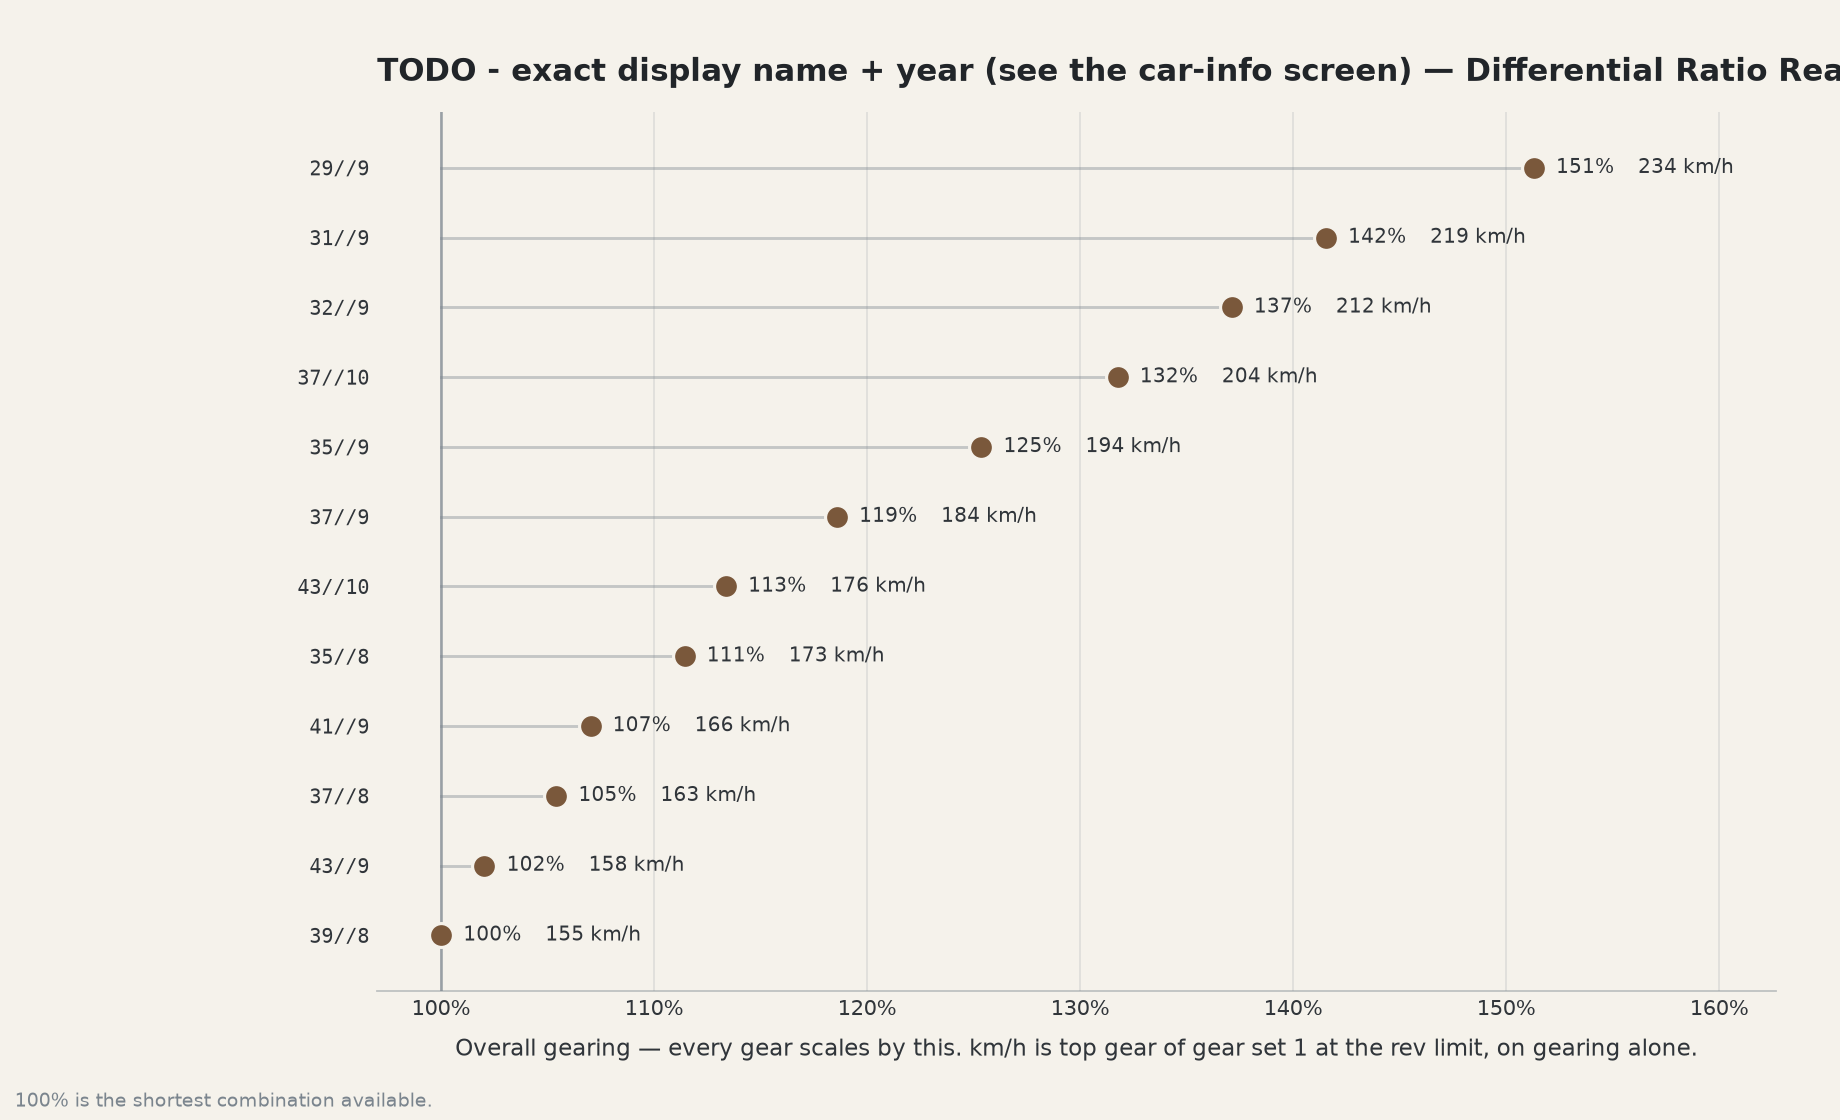
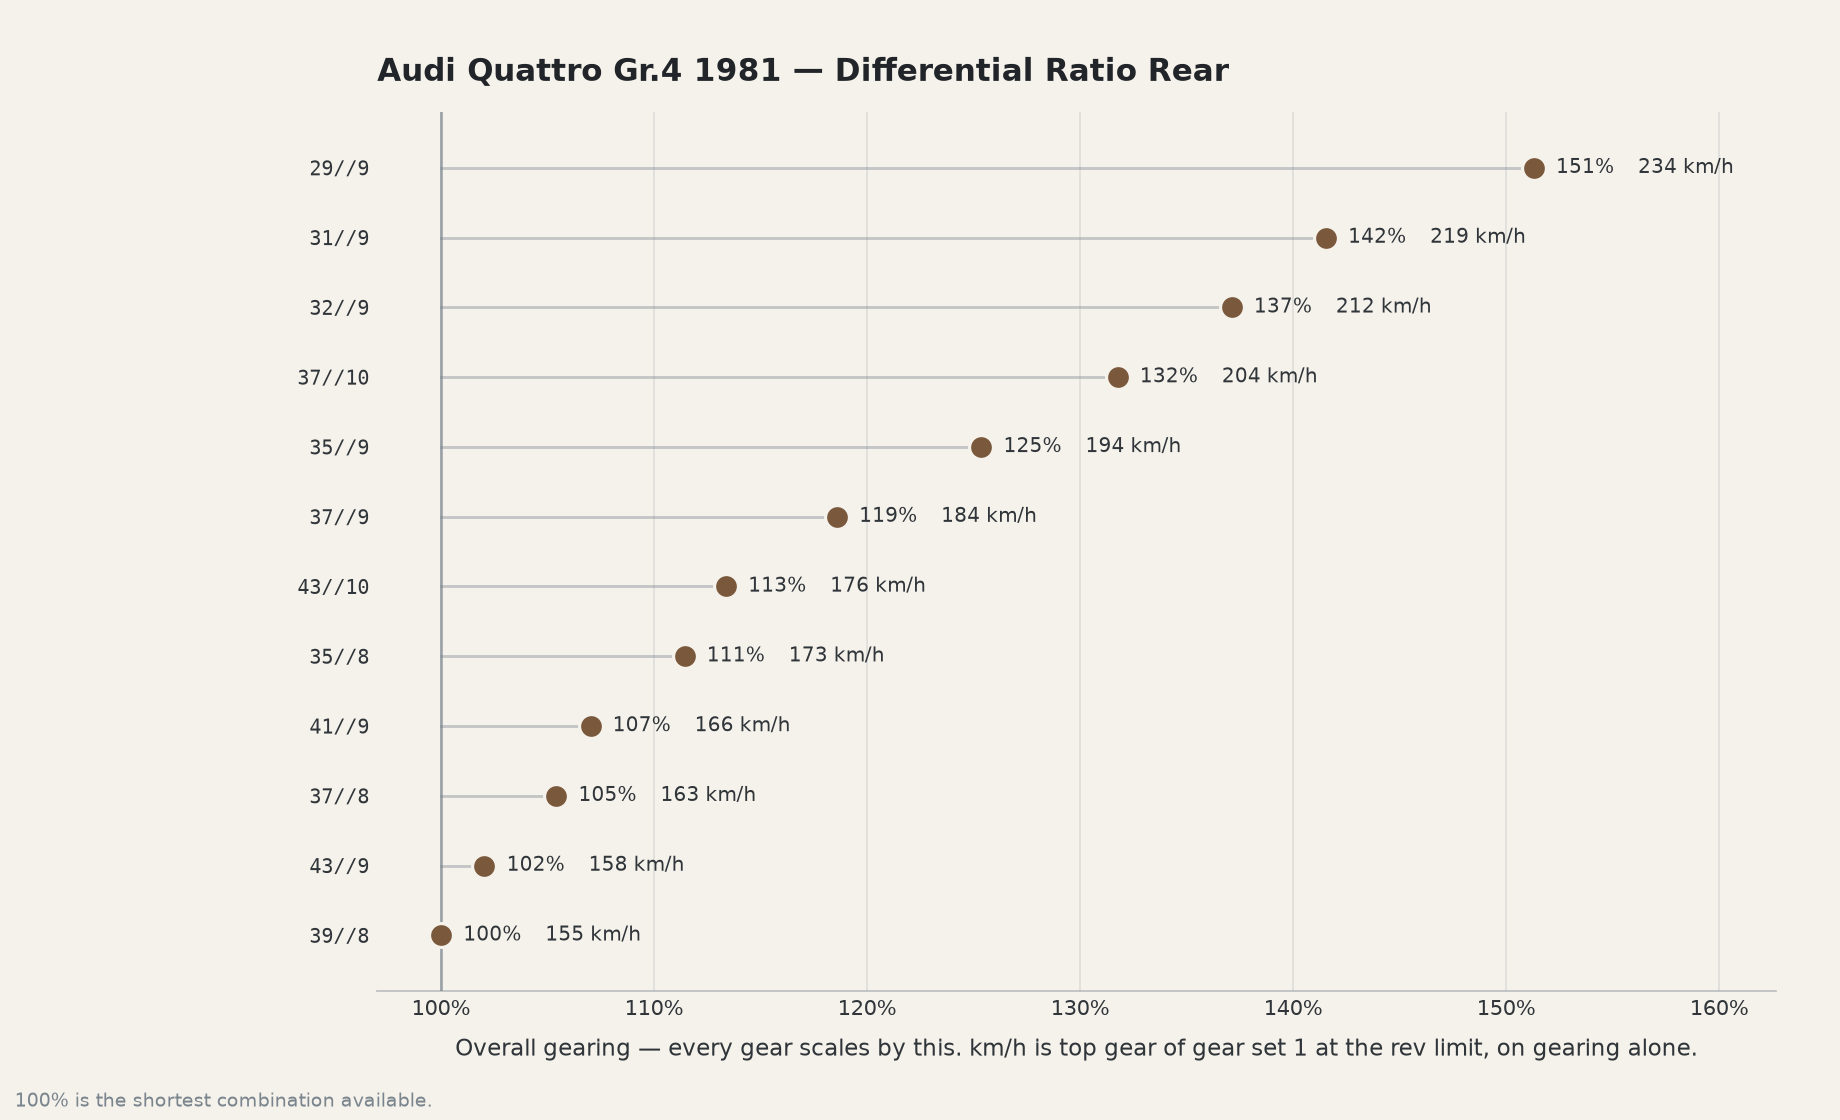
todos filled out

Changed region(s): [[0.2168, 0.0312, 0.7745, 0.0938], [0.8054, 0.0312, 1.0, 0.0938]]

diff --git a/tools/torque-curves/extract_torque_curves.py b/tools/torque-curves/extract_torque_curves.py
@@ -41,15 +41,16 @@ CAR_MAP = {
     "Fiat131Abarth":                ("fiat-131-abarth-1976", "Fiat 131 Abarth 1976"),
     "HyundaiI20NRally2":            ("hyundai-i20-rally2-2021", "Hyundai i20 Rally2 2021"),
     "LanciaDeltaHFIntegraleEvo":    ("lancia-delta-integrale-evoluzione-1992", "Lancia Delta Integrale Evoluzione 1992"),
-    "LanciaFulviaCoupeHF": ("lancia-fulvia-coupe-hf-1970", "Lancia Fulvia Coupe HF 1970"),
+    # accent matches the template's own car: field - see the note under CAR_MAP
+    "LanciaFulviaCoupeHF": ("lancia-fulvia-coupe-hf-1970", "Lancia Fulvia Coupé HF 1970"),
     "LanciaRally037Evo2":           ("lancia-037-evoluzione-2-1984", "Lancia 037 Evoluzione 2 1984"),
     "LanciaStratosHF":              ("lancia-stratos", "Lancia Stratos HF 1976"),
     "MiniCooperS1275":              ("mini-cooper-s-1964", "Mini Cooper S 1964"),
-    "Peugeot208Rally4":             ("peugeot-208-rally4", "Peugeot 208 Rally4"),
+    "Peugeot208Rally4":             ("peugeot-208-rally4", "Peugeot 208 Rally4 2020"),
     "Peugeot306IIMaxi":       ("peugeot-306-ii-maxi-1997", "Peugeot 306 II Maxi 1997"),
     "SkodaFabiaRSRally2":           ("skoda-fabia-rs-rally2-2022", "Skoda Fabia RS Rally2 2022"),
     "SubaruImprezaS3":           ("subaru-impreza-555-s3-1993", "Subaru Impreza 555 (S3) 1993"),
-    "AudiQuattroGr4":               ("audi-quattro-gr4-1981", "Audi Quattro Gr4 1981"),
+    "AudiQuattroGr4":               ("audi-quattro-gr4-1981", "Audi Quattro Gr.4 1981"),
     "VWPoloGTIR5":                  ("volkswagen-polo-gti-r5-2018", "Volkswagen Polo GTI R5 2018"),
     # Peugeot206WRC has no FC_*_Torque asset in the game files yet (see
     # car-catalog/README.md - Car identity facts / the Peugeot 206 WRC note) -
@@ -57,6 +58,10 @@ CAR_MAP = {
     # picks it up automatically.
     "Peugeot206WRC":                ("peugeot-206-wrc-1999", "Peugeot 206 WRC 1999"),
 }
+
+# The display name above titles the chart, and must stay identical to the template's
+# own `car:` field - ../gearing-charts/make_gearing_chart.py titles its charts from
+# that field instead, so a mismatch ships two charts for one car under two names.
 
 # Brand palette (yt-writing/brand-palette.md)
 WARM_WHITE, GRAPHITE, DARK_GRAPHITE = "#F5F2EB", "#30353A", "#212529"
@@ -293,10 +298,14 @@ def main():
     ap.add_argument("--templates",
                     default=os.path.join(REPO, ".claude", "skills", "acr-setup-engineer", "car-templates"))
     ap.add_argument("--dry-run", action="store_true", help="report only; write nothing")
+    ap.add_argument("--car", help="only this template slug (default: every car). Use it when "
+                                  "re-rendering one car so the other templates aren't rewritten.")
     args = ap.parse_args()
 
     if not os.path.isdir(args.paks):
         sys.exit(f"ACR paks not found at {args.paks} (pass --paks)")
+    if args.car and args.car not in {slug for slug, _ in CAR_MAP.values()}:
+        sys.exit(f"unknown slug {args.car} - add it to CAR_MAP first")
 
     assets = find_curve_assets(args.paks)
     print(f"found {len(assets)} torque curves in {args.paks}\n")
@@ -324,6 +333,8 @@ def main():
             print(f"  !! {car}: not in CAR_MAP - add it and re-run")
             continue
         slug, display = CAR_MAP[car]
+        if args.car and slug != args.car:
+            continue
 
         if not args.dry_run:
             render_chart(display, s, os.path.join(args.charts, f"{slug}-power-torque.png"))

diff --git a/tools/car-catalog/extract_car_catalog.py b/tools/car-catalog/extract_car_catalog.py
@@ -51,7 +51,6 @@ CAR_MAP = {
     'peugeot-306-ii-maxi-1997':               'DA_Peugeot306IIMaxiPresets',
     'skoda-fabia-rs-rally2-2022':             'DA_SkodaFabiaRSRally2Presets',
     'subaru-impreza-555-s3-1993':             'DA_SubaruImprezaS3Presets',
-    # queued, no bundled template yet - onboarding backlog
     'audi-quattro-gr4-1981':                  'DA_AudiQuattroGr4Presets',
     'volkswagen-polo-gti-r5-2018':            'DA_VWPoloGTIR5Presets',
     'peugeot-208-rally4':                     'DA_Peugeot208Rally4Presets',
@@ -457,13 +456,24 @@ def bootstrap_header(slug):
     Everything else DT_Cars doesn't hold as a plain FName - the exact display
     name/year, weight, weight distribution, steering lock, and the precise
     engine_layout prose (orientation, displacement, valve gear) - stays a `TODO`
-    placeholder for one look at the game's car-info screen. Steering lock in
-    particular was searched for and not found: neither `DT_Cars`' `SteeringAngle`
-    field nor the `DT_SteeringAngles` table it points into holds a plain lock-angle
-    number for any car (a byte-level scan for every existing template's known
+    placeholder for one look at the game's car-info screen, which shows the
+    display name, year, engine, max power, max torque, weight and steering lock
+    directly. Two cautions when reading that screen:
+
+    - **The steering-lock figure can be a per-side angle.** The VW Polo GTI R5's
+      screen reads `280°` where the real lock-to-lock is `560°`. Sanity-check it
+      against the other cars (most read 720-1170) and double it when it looks
+      half-sized.
+    - **The engine description can be wrong.** The Audi Quattro Gr.4's screen
+      says `Inline 4`; the real car is a 2.1L inline-5. Write the real layout in
+      `engine_layout` and note the disagreement.
+
+    Steering lock is *not* in the game data as a plain number: neither `DT_Cars`'
+    `SteeringAngle` field nor the `DT_SteeringAngles` table it points into holds a
+    lock-angle for any car (a byte-level scan for every existing template's known
     `steering_lock` value found zero matches) - `DT_SteeringAngles` looks to be
-    about the visual wheel prop, not the tunable spec. Don't re-check those two
-    tables for this without new evidence; it's a dead end.
+    about the visual wheel prop. Don't re-check those two tables for it; read the
+    car-info screen instead.
     """
     key = {v: k for k, v in CI.SLUGS.items()}.get(slug)
     folder = {v[0]: k for k, v in TC.CAR_MAP.items()}.get(slug, 'TODO-folder-name')
@@ -481,8 +491,8 @@ def bootstrap_header(slug):
         'max_torque: "TODO - real-world spec (see README.md: this is not game output)"',
         f'class: "{facts.get("class") or "TODO"}"',
         f'gearbox: "{facts.get("gearbox") or "TODO"}"',
-        'steering_lock: "TODO - from the car-info screen '
-        '(not in DT_Cars/DT_SteeringAngles - checked, see bootstrap_header docstring)"',
+        'steering_lock: "TODO - from the car-info screen; double it if it reads '
+        'half-sized (that screen sometimes shows the per-side angle - see bootstrap_header)"',
         f'version: "{GAME_VERSION}"',
     ]
     return '\n'.join(lines)

diff --git a/tools/gearing-charts/make_gearing_chart.py b/tools/gearing-charts/make_gearing_chart.py
@@ -78,7 +78,6 @@ CARS = {
                                                'SkodaFabiaRSRally2'),
     'subaru-impreza-555-s3-1993':             ('SubaruImprezaS3', 'SubaruImprezaS3555',
                                                'SubaruImprezaS3'),
-    # queued, no bundled template yet - onboarding backlog
     'audi-quattro-gr4-1981':                  ('AudiQuattroGr4', 'AudiQuattroGr.4',
                                                'AudiQuattroGr4'),
     'volkswagen-polo-gti-r5-2018':            ('VWPoloGTIR5', 'VolkswagenPoloGTIR5',

diff --git a/tools/car-catalog/car_identity.py b/tools/car-catalog/car_identity.py
@@ -49,8 +49,6 @@ SLUGS = {
     'Peugeot306IIMaxiKitCar':  'peugeot-306-ii-maxi-1997',
     'SkodaFabiaRSRally2':      'skoda-fabia-rs-rally2-2022',
     'SubaruImprezaS3':         'subaru-impreza-555-s3-1993',
-    # queued, no bundled template yet - see car-templates/README or the skill's
-    # onboarding backlog
     'AudiQuattroGr4':          'audi-quattro-gr4-1981',
     'VWPoloGTIR5':             'volkswagen-polo-gti-r5-2018',
     'Peugeot208Rally4':        'peugeot-208-rally4',

diff --git a/tools/car-catalog/README.md b/tools/car-catalog/README.md
@@ -164,11 +164,46 @@ bootstrapped this way):
    final-drive chart, if the car's final drive is adjustable — the tool says so on the cars that
    aren't, e.g. Peugeot 208 Rally4 and VW Polo GTI R5). Needs step 3's `engine_curve:` block first
    (it reads the redline from it) — a car with no engine curve (206 WRC) can't get one yet either.
-5. **Finish by hand — down to a small, bounded list:** `car` (exact display name/year), `weight`,
-   `weight_bias`, `steering_lock`, and the precise `engine_layout` wording (orientation,
-   displacement, valve gear) from the car-info screen; confirm or correct `max_power`/`max_torque`
-   against a real spec sheet; and the `NEEDS SCREENSHOT` parameters from one look at the min/max
-   setup screens. `steering_lock` specifically was searched for in the game files and not found —
-   see `bootstrap_header()`'s docstring before spending time re-checking `DT_Cars` or
-   `DT_SteeringAngles` for it. Until `car:` stops being the literal string `"TODO"`, the template
-   is a draft — don't let the skill auto-onboard a car from it.
+5. **Finish from the in-game car-info screen — one screenshot per car.** That screen carries
+   `car` (display name + year), `engine`, `max_power`, `max_torque`, `weight` and `steering_lock`
+   in one place, so the header comes down to a single capture. Two traps, both hit on real cars:
+   - **The steering-lock figure is sometimes the per-side angle.** The VW Polo GTI R5 reads
+     `280°` where lock-to-lock is `560°`. Every other car so far reads a sane 720–1170, so a
+     half-sized number is the tell — double it.
+   - **The engine description can be wrong.** The Audi Quattro Gr.4 screen says `Inline 4`; the
+     real car is a 2.1L inline-5. Write the true layout in `engine_layout` and note the
+     disagreement in the same line, the way that template does.
+
+   Two fields the screen does *not* carry: `weight_bias` (rarely published for rally cars — an
+   estimate marked `(estimated — no published figure)` is the established convention, see the
+   Fiat 131 template) and the `engine_layout` detail beyond cylinder count (orientation,
+   displacement, valve gear) — a quick spec-sheet lookup. Finally, fill the `NEEDS SCREENSHOT`
+   parameters from the min/max setup screens. Until `car:` stops being the literal string
+   `"TODO"`, the template is a draft — don't let the skill auto-onboard a car from it, and note
+   that the gearing charts title themselves from `car:`, so rendering them before this step puts
+   the word "TODO" on the chart.
+
+## Chart titles come from two places — keep them in sync
+
+`extract_torque_curves.py` titles the power/torque chart from its `CAR_MAP` display name;
+`../gearing-charts/make_gearing_chart.py` titles its charts from the template's own `car:` field.
+They must match exactly or one car ships charts under two names (the Lancia Fulvia ran for a
+while with `Coupé` in the template and `Coupe` on its chart). After changing either, re-check:
+
+```bash
+python - <<'PY'
+import os, re, sys; sys.path.insert(0, '../torque-curves')
+from extract_torque_curves import CAR_MAP
+T = '../../.claude/skills/acr-setup-engineer/car-templates'
+for _, (slug, display) in sorted(CAR_MAP.items()):
+    p = os.path.join(T, slug + '.yaml')
+    if not os.path.exists(p):
+        continue
+    car = re.search(r'car: "([^"]+)"', open(p, encoding='utf-8').read()).group(1)
+    if car != display:
+        print(f'MISMATCH {slug}: chart="{display}" yaml="{car}"')
+PY
+```
+
+Both chart tools take `--car <slug>` to re-render a single car, which is how you avoid rewriting
+the other templates (and spraying phantom line-ending diffs) when only one car changed.
